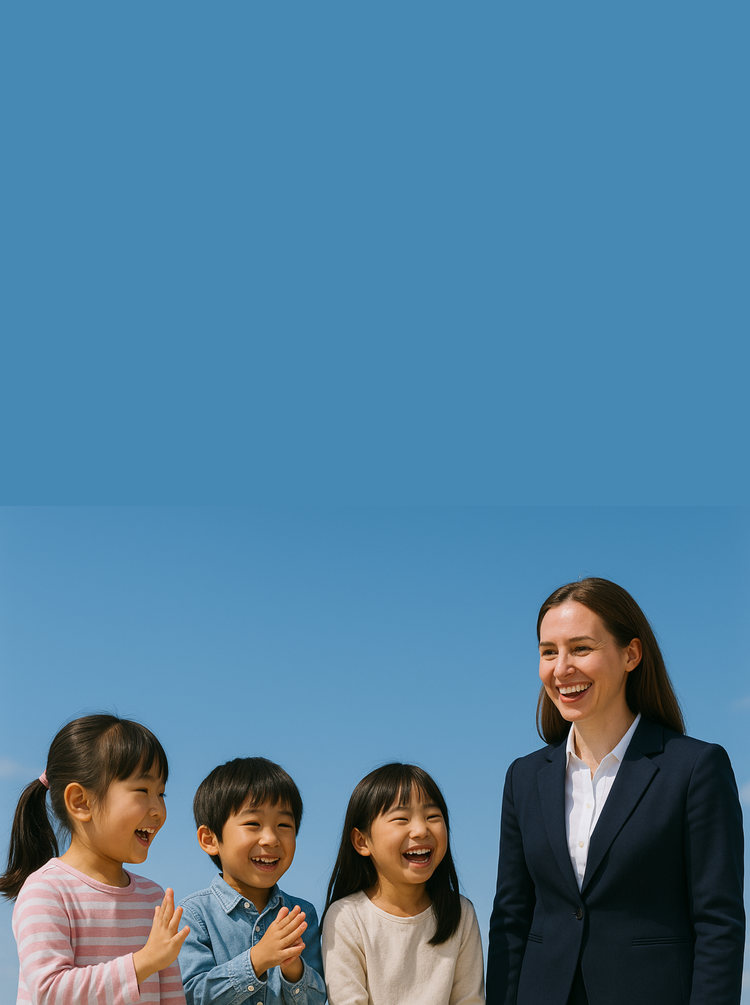
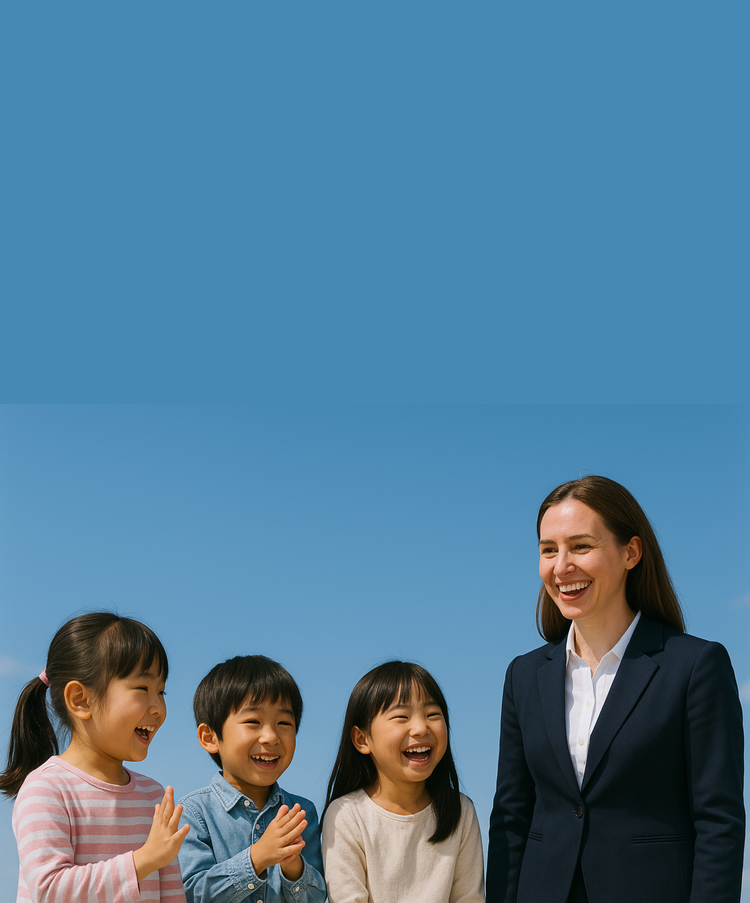
news-section レイアウト変更_css

diff --git a/style.css b/style.css
@@ -402,21 +402,7 @@ body {
   opacity: 0.9;
 }
 
-/* ===== Responsive ===== */
-@media (max-width: 640px){
-  .news-inner{
-    padding: 0 16px 44px;
-  }
 
-  .news-link{
-    grid-template-columns: 1fr;
-    padding: 12px 0;
-  }
-
-  .news-actions{
-    justify-content: flex-start;
-  }
-}
 
 /* ===== Reasons ===== */
 .reasons{
@@ -1663,7 +1649,7 @@ body {
     position: relative;
     margin-top:8px;
     margin-bottom: 24px;
-    min-height:400px; /* 小さくなりすぎないように最低高を確保 */
+    min-height:300px; /* 小さくなりすぎないように最低高を確保 */
     overflow: hidden;
   }
 
@@ -1672,7 +1658,7 @@ body {
   /* 画像の表示調整：中心を基準にカバーする */
   .hero-media img {
     width: 100%;
-    height: 65%;
+    height: 100%;
  
   }
 
@@ -1701,7 +1687,7 @@ body {
   /* キッカー（英語の小見出し） */
   .hero-kicker {
     
-    font-size: 1.125rem;
+    font-size: 0.875rem;
     margin-bottom: 12px;
     letter-spacing: 0.05em;
     
@@ -1709,7 +1695,7 @@ body {
 
   /* メインタイトル：改行とサイズの調整 */
   .hero-title {
-    font-size: 2rem; /* スマホで適切な大きさに */
+    font-size: 1.5rem; /* スマホで適切な大きさに */
     line-height: 1.4;
     margin-bottom: 0px;
     word-break: keep-all; /* 単語の途中で変に改行されないように */
@@ -1718,10 +1704,10 @@ body {
   /* 説明文：スマホでは改行を無視して流す */
   .hero-text {
     margin-top:16px;
-    font-size: 1rem;
+    font-size: 0.75rem;
     line-height: 1.6;
     text-align: left;
-    width:85%;
+    width:80%;
     color:#ffffff;
     font-weight: 10;
     margin-bottom: 72px;
@@ -1737,15 +1723,39 @@ body {
 
 /*【NEWS お知らせ　Section】*/
 
-.news-link{
-  gap: 0px;
+  .news-link{
+    display: grid;
+    grid-template-columns: 120px 1fr; /* ← 左の幅。110〜140で好み調整 */
+    gap: 12px;
+    align-items: center;
+    padding: 10px 0;
+  }
+
+  /* 左側（タグ＋日付）は縦並びのまま */
+  .news-meta{
+    gap: 6px;
+  }
+
+  /* タグ：行頭で目立つように */
+  .news-tag{
+    margin-top: 0;
+    height: 28px;
+    font-size: 14px;
+    padding: 0 12px;
+  }
+
+  /* 日付：左の下に */
+  .news-date{
+    padding-left: 0;
+    font-size: 12px;
+  }
+
+  /* 右側本文：詰める */
+  .news-text{
+    margin: 0;
+    line-height: 1.5;
+    font-size: 0.95rem; /* 0.85〜1.0で調整OK */
+  }
 }
 
- .news-text{
-   font-size: 0.8rem;
- }
 
-
-
-
-}
